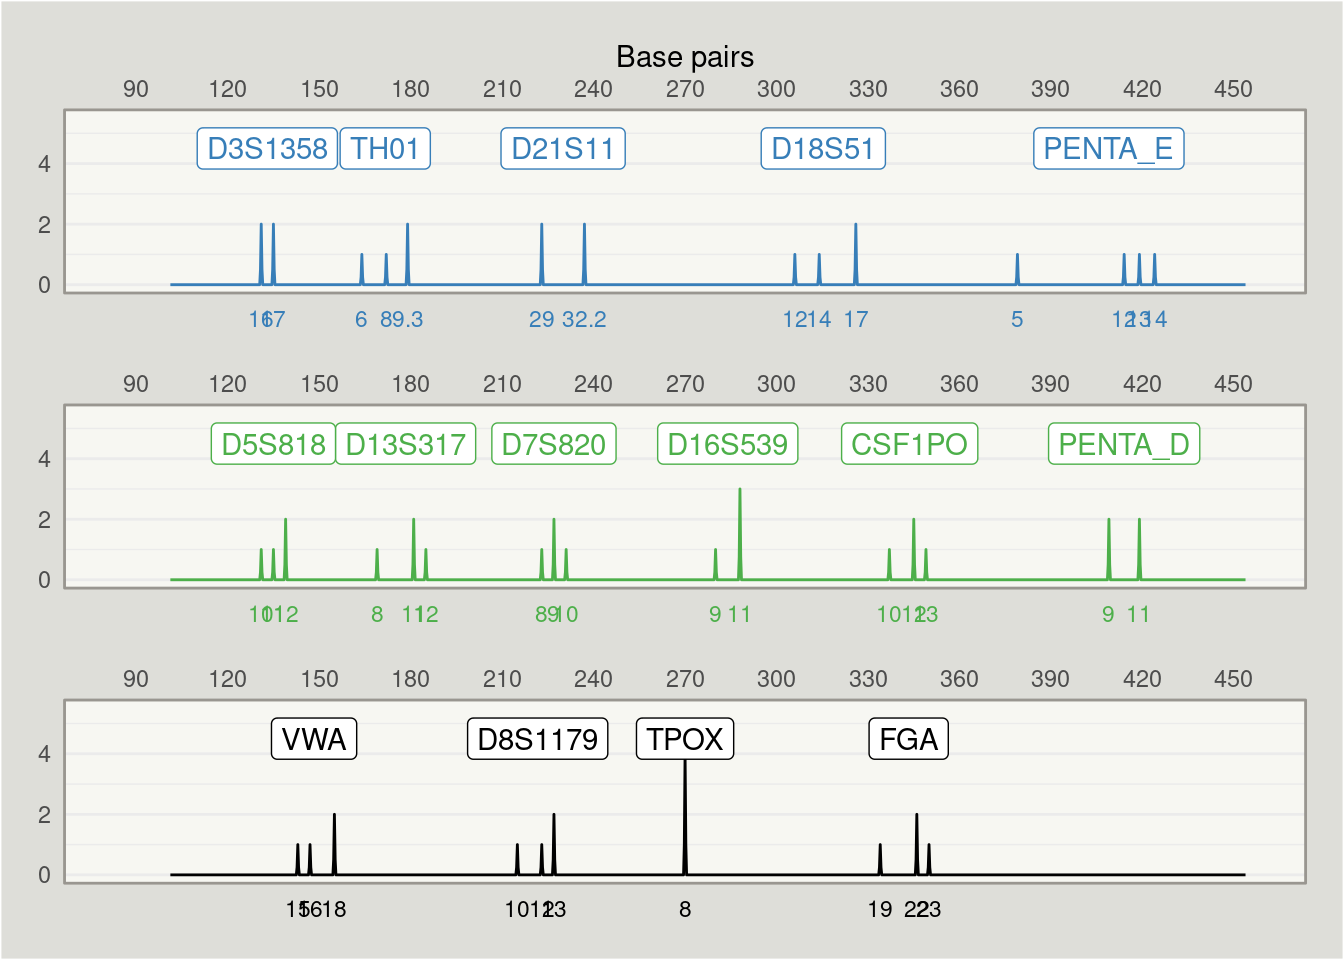
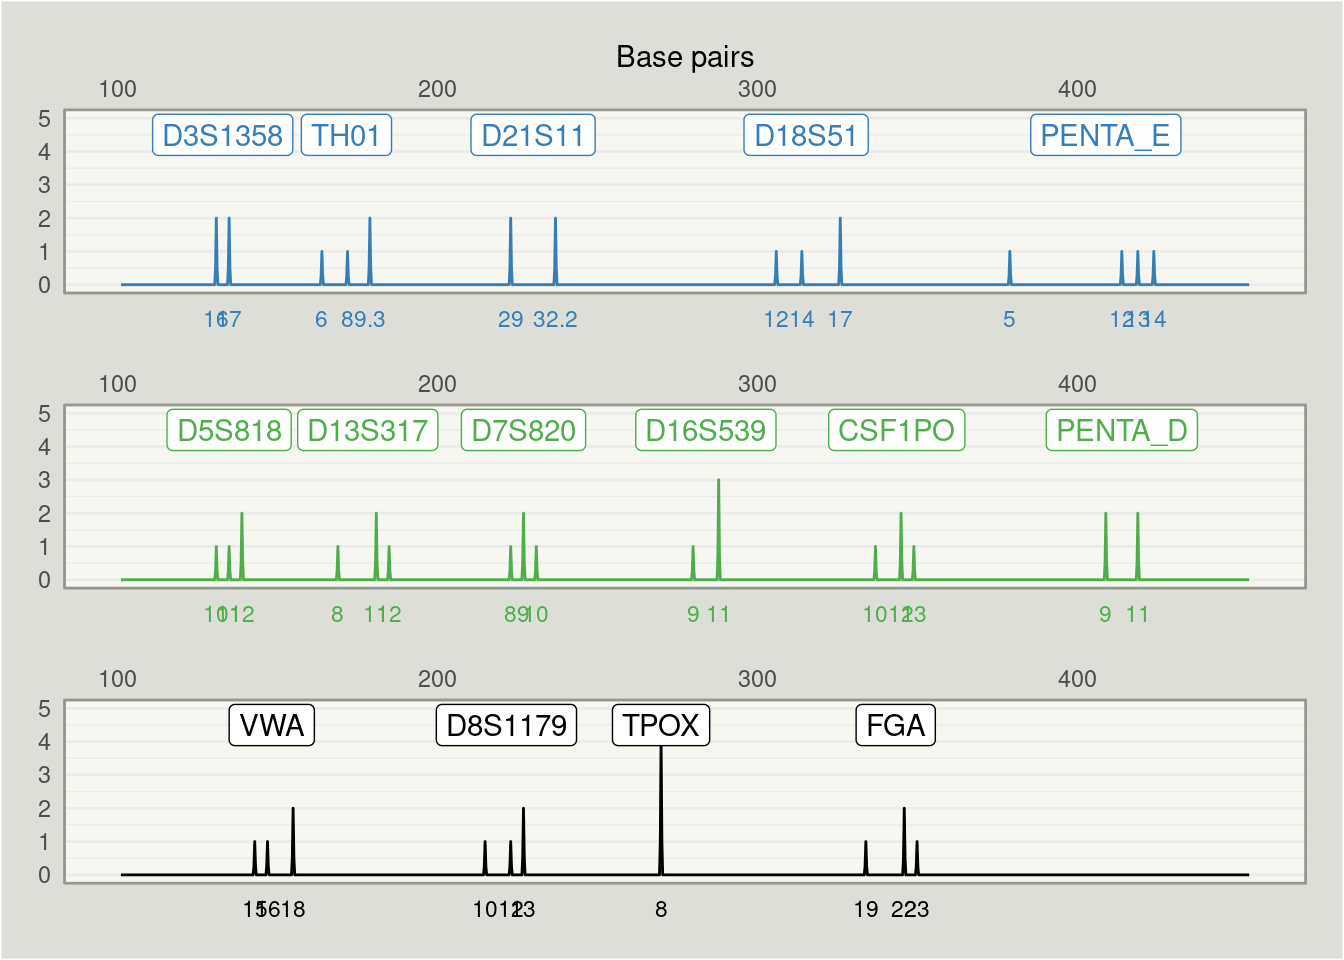
Made default plotting a method on profile manager

diff --git a/README.md b/README.md
@@ -27,7 +27,6 @@ base-pair data from [STRBase](https://strbase.nist.gov/) and plot it:
 
 ``` r
 library(strbasehelper)
-library(ggplot2)
 
 # Start with profile data: a long dataframe with the counts of alleles within loci
 dplyr::glimpse(profile_data_long)
@@ -71,15 +70,22 @@ profile_manager$fetch_strbase_tables()
 #> Fetching VWA...      [15/15]
 profile_manager$extract_basepairs()
 
-minmax <- function(x) {
-  return(data.frame(xmin = min(x), ymax = max(x)))
-}
+# Use plotting method to make a nice ggplot2 plot...
+profile_manager$profile_plot()
+```
 
-# Now we can plot with ggplot2
+<img src="man/figures/README-example-1.png" width="100%" />
+
+``` r
+
+# ...equivalent to the following code
+
+library(ggplot2)
 profile_data <- profile_manager$profile_data
+
 ggplot(profile_data, aes(x = base_pairs, y = n, col = colour)) +
   geom_line(stat = "allele_spike") +
-  geom_label(aes(group = locus, y = max(n) + 0.5, label = locus), 
+  geom_label(aes(group = locus, y = max(n) + 0.5, label = locus),
              stat = "summary", fun = "mean", orientation = "y") +
   geom_text(aes(y = -Inf, label = allele), vjust = 2, size = 3) +
   scale_x_continuous(limits = c(85, 455), breaks = seq(90, 450, 30), position = "top") +
@@ -101,5 +107,3 @@ ggplot(profile_data, aes(x = base_pairs, y = n, col = colour)) +
         plot.margin = unit(c(1, 1, 2, 1), "lines"),
         plot.background = element_rect(fill = "#DEDED9"))
 ```
-
-<img src="man/figures/README-example-1.png" width="100%" />
